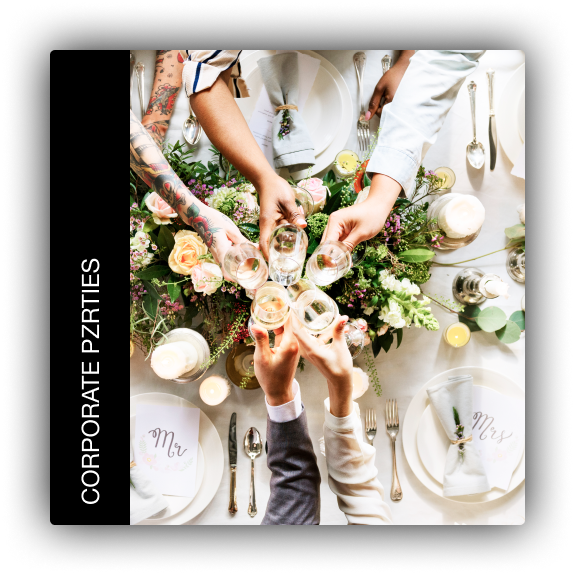
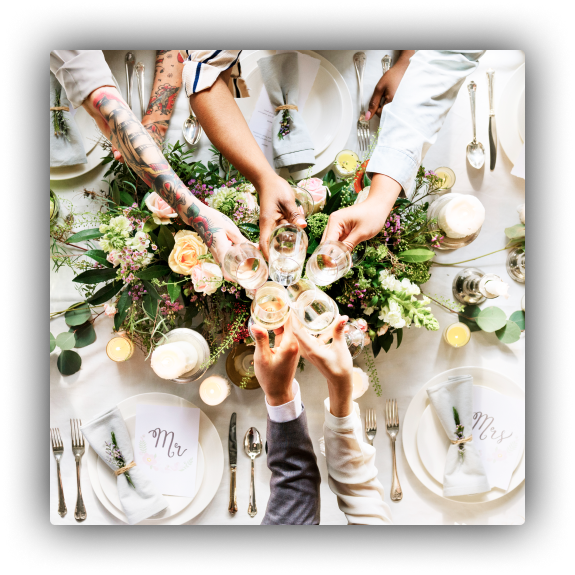
feat: components: PrivateEvents; fix: sections paddings, size images;

Changed region(s): [[0.0887, 0.0887, 0.2365, 0.9165]]

diff --git a/src/components/PrivateEvents/PrivateEvents.js b/src/components/PrivateEvents/PrivateEvents.js
@@ -1,0 +1,20 @@
+import React from "react";
+import {rings, parties} from "../../utils/constants"
+
+function PrivateEvents() {
+    return (
+        <section className="private-events">
+            <h2 className="section__title">PRIVATE EVENTS</h2>
+            <div className="private-events__container">
+                <img className="restaurant-image" src={rings} alt="rings"/>
+                <div className="private-events__rectangle private-events__rectangle_r"><p className="private-events__text private-events__text_l">WEDDINGS</p></div>
+            </div>
+            <div className="private-events__container">
+                <img className="restaurant-image" src={parties} alt="wedding"/>
+                <div className="private-events__rectangle private-events__rectangle_l"><p className="private-events__text private-events__text_l">CORPORATE&nbsp;PARTIES</p></div>
+            </div>
+        </section>
+    )
+}
+
+export default PrivateEvents;

diff --git a/src/components/PrivateEvents/PrivateEvents.css b/src/components/PrivateEvents/PrivateEvents.css
@@ -1,0 +1,47 @@
+.private-events {
+    background-image: url("../../assets/Specialties.png");
+    background-size: cover;
+    background-position: center;
+    color: white;
+    position: relative;
+    padding: 50px 80px 50px 100px;
+    display: flex;
+    justify-content: center;
+}
+
+.private-events__container {
+    position: relative;
+}
+
+.private-events__rectangle {
+    position: absolute;
+    background-color: black;
+    width: 80px;
+    height: 475px;
+    top: 50px;
+}
+
+.private-events__rectangle_r {
+    right: 50px;
+}
+
+.private-events__rectangle_l {
+    left: 50px;
+}
+
+.private-events__text {
+    font-family: 'Helvetica Neue', Arial, sans-serif;
+    font-style: normal;
+    font-weight: 400;
+    font-size: 24px;
+    line-height: 12px;
+    text-indent: 20px;
+}
+
+.private-events__text_l {
+    transform: rotate(90deg);
+   }
+
+.private-events__text_r {
+     transform: rotate(-90deg);
+}

diff --git a/src/components/App/App.js b/src/components/App/App.js
@@ -5,6 +5,7 @@ import AboutUs from "../AboutUs/AboutUs";
 import OurTeam from "../OurTeam/OurTeam";
 import Specialties from "../Specialties/Specialties";
 import Booking from "../Booking/Booking";
+import PrivateEvents from "../PrivateEvents/PrivateEvents";
 
 
 function App() {
@@ -14,7 +15,8 @@ function App() {
         <AboutUs/>
         <OurTeam/>
         <Booking/>
-      <Specialties/>
+        <Specialties/>
+        <PrivateEvents/>
     </div>
   );
 }

diff --git a/src/utils/constants.js b/src/utils/constants.js
@@ -6,7 +6,7 @@ import coals from "../assets/coals.png"
 import chef from "../assets/cook.png"
 import iceCream from "../assets/ice-cream.png"
 import rings from "../assets/rings.png"
-import wedding from "../assets/wedding.png"
+import parties from "../assets/wedding.png"
 import clock from "../assets/clock.png"
 
 export {
@@ -18,6 +18,6 @@ export {
     coals,
     iceCream,
     rings,
-    wedding,
+    parties,
     clock
 };

diff --git a/src/index.css b/src/index.css
@@ -7,3 +7,4 @@
 @import url("./components/TextBlock/TextBlock.css");
 @import url("./components/OurTeam/OurTeam.css");
 @import url("./components/Specialties/Specialties.css");
+@import url("./components/PrivateEvents/PrivateEvents.css");

diff --git a/src/components/AboutUs/AboutUs.css b/src/components/AboutUs/AboutUs.css
@@ -8,11 +8,12 @@
 
 .about-us {
 
-    padding: 75px 100px 75px 80px;
+    padding: 50px 100px 50px 80px;
 
 
 }
 
 .restaurant-image {
-    transform: scale(1.1);
+    /*transform: scale(1.1);*/
+
 }

diff --git a/src/components/OurTeam/OurTeam.css b/src/components/OurTeam/OurTeam.css
@@ -5,7 +5,7 @@
     background-position: center;
     color: white;
     position: relative;
-    padding: 75px 80px 75px 100px;
+    padding: 50px 80px 50px 100px;
 
 }
 

diff --git a/src/components/Specialties/Specialties.css b/src/components/Specialties/Specialties.css
@@ -4,6 +4,6 @@
     background-position: center;
     color: white;
     position: relative;
-    padding: 75px 80px 75px 100px;
+    padding: 50px 80px 50px 100px;
 }
 
